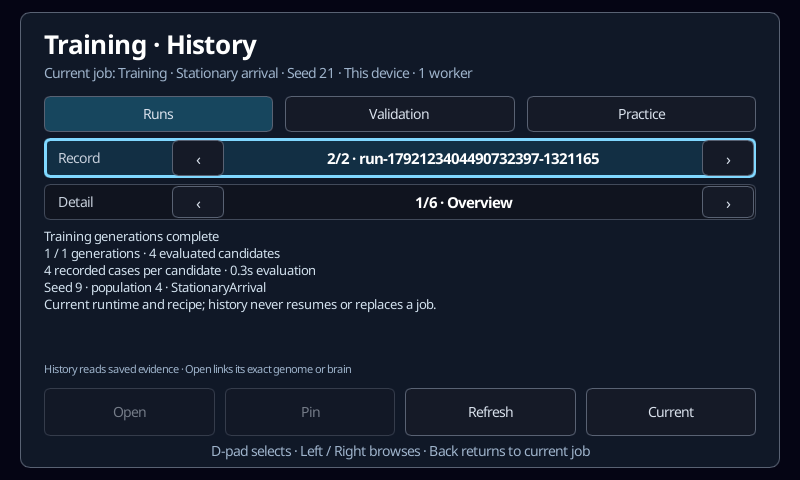
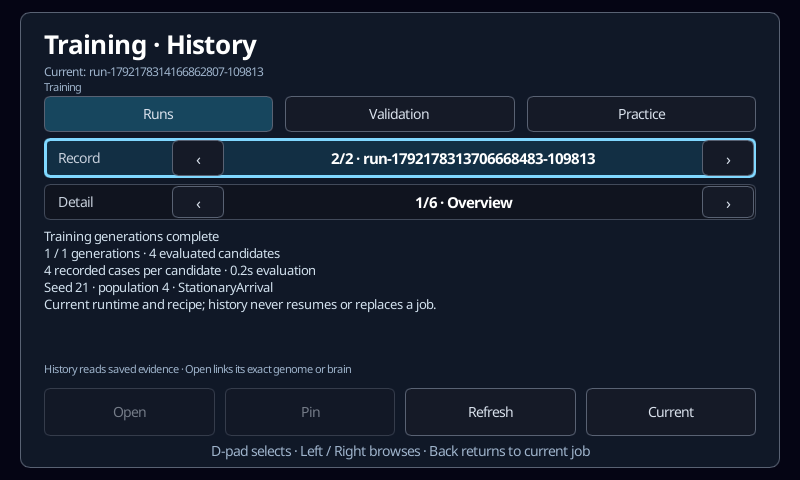
Fix history comparisons, hidden replays, and current run identity

Changed region(s): [[0.0625, 0.125, 0.5938, 0.1875], [0.4062, 0.3125, 0.75, 0.3438], [0.0938, 0.5938, 0.3438, 0.625]]

diff --git a/crates/engine-client/src/training_history/details/tests.rs b/crates/engine-client/src/training_history/details/tests.rs
@@ -1,0 +1,116 @@
+use super::*;
+use engine_agent::{
+    brain_assembly,
+    genome_library::{self, Practice},
+    training_history::{self, Key, Kind, TrialRecord},
+};
+use std::path::Path;
+
+fn read_trial(root: &Path, kind: Kind, id: &str, receipt: &Path) -> TrialRecord {
+    let key = Key {
+        kind,
+        id: id.into(),
+        receipt: receipt.file_stem().unwrap().to_str().unwrap().into(),
+    };
+    let Record::Trial(trial) = training_history::inspect(root, &key).unwrap() else {
+        panic!("expected practice receipt")
+    };
+    *trial
+}
+
+fn measured(trial: &TrialRecord) -> Sample {
+    pages(&Record::Trial(Box::new(trial.clone())), false)
+        .remove(0)
+        .sample
+        .unwrap()
+}
+
+#[test]
+fn component_and_assembly_receipts_share_their_execution_protocol() {
+    let dir = tempfile::tempdir().unwrap();
+    let root = dir.path();
+    let entries = genome_library::catalog(&root.join("genomes"))
+        .unwrap()
+        .entries;
+    let assembly = brain_assembly::create(root, &entries[0].id, "Comparison fixture").unwrap();
+    let mut protocols = Vec::new();
+    for preset in [Practice::Stationary, Practice::Moving] {
+        let component =
+            genome_library::practice(&root.join("trials"), &entries[0], preset).unwrap();
+        let assembled = brain_assembly::practice(root, &assembly.id, preset).unwrap();
+        assert_eq!(component.episode, assembled.episode);
+        let a = read_trial(root, Kind::GenomeTrial, &entries[0].id, &component.receipt);
+        let b = read_trial(root, Kind::AssemblyTrial, &assembly.id, &assembled.receipt);
+        assert_eq!(measured(&a).protocol.mismatch(&measured(&b).protocol), None);
+        assert_eq!(measured(&a).value, measured(&b).value);
+
+        // A different controller can be compared on the same physical task.
+        let other = genome_library::practice(&root.join("trials"), &entries[1], preset).unwrap();
+        let other = read_trial(root, Kind::GenomeTrial, &entries[1].id, &other.receipt);
+        assert_ne!(a.brain.controller, other.brain.controller);
+        assert_eq!(
+            measured(&other).protocol.mismatch(&measured(&b).protocol),
+            None
+        );
+        protocols.push(measured(&a).protocol);
+
+        type Change = (&'static str, fn(&mut TrialRecord));
+        let changes: [Change; 7] = [
+            ("runtime", |t| t.runtime.push_str("/other")),
+            ("case seed", |t| t.case.seed += 1),
+            ("tick budget", |t| t.case.max_ticks -= 1),
+            ("coordinator", |t| t.brain.coordinator.push_str("/other")),
+            ("host", |t| {
+                t.assembly
+                    .as_mut()
+                    .unwrap()
+                    .definition
+                    .host
+                    .push_str("/other")
+            }),
+            ("organism", |t| {
+                t.assembly
+                    .as_mut()
+                    .unwrap()
+                    .definition
+                    .organism
+                    .push_str("/other")
+            }),
+            ("capabilities", |t| {
+                t.assembly
+                    .as_mut()
+                    .unwrap()
+                    .definition
+                    .required_capabilities
+                    .push("other".into())
+            }),
+        ];
+        for (name, change) in changes {
+            let mut different = b.clone();
+            change(&mut different);
+            assert!(
+                measured(&a)
+                    .protocol
+                    .mismatch(&measured(&different).protocol)
+                    .is_some(),
+                "{name}"
+            );
+        }
+
+        // An unknown recipe cannot borrow the current implicit host, even if
+        // both receipt wrappers carry the same recipe string and brain.
+        let mut unknown_component = a;
+        let mut unknown_assembly = b;
+        unknown_component.recipe = "unrecognized_arrival_v2".into();
+        unknown_assembly
+            .recipe
+            .clone_from(&unknown_component.recipe);
+        assert!(
+            measured(&unknown_component)
+                .protocol
+                .mismatch(&measured(&unknown_assembly).protocol)
+                .is_some()
+        );
+    }
+    assert!(protocols[0].mismatch(&protocols[1]).is_some());
+}

diff --git a/crates/engine-client/src/keyboard_tests/training_history.rs b/crates/engine-client/src/keyboard_tests/training_history.rs
@@ -59,7 +59,7 @@ fn history_browses_run_a_and_trials_its_winner_while_b_keeps_its_results() {
     first_control
         .start(JobSpec {
             recipe: Recipe::StationaryArrival,
-            seed: 9,
+            seed: 21,
             population: 4,
             generations: 1,
             initial_genomes: Some(vec![
@@ -97,6 +97,24 @@ fn history_browses_run_a_and_trials_its_winner_while_b_keeps_its_results() {
     while w.get_history_id().as_str() != a.run_id.as_deref().unwrap() {
         activate(&w, "next");
     }
+    // Recipe and seed match, so the active run needs its own exact identity.
+    assert_eq!(
+        w.get_training_run_id().as_str(),
+        b_before["run_id"].as_str().unwrap()
+    );
+    assert!(
+        w.get_history_current_label()
+            .contains(w.get_training_run_id().as_str())
+    );
+    assert!(!w.get_history_is_current());
+    let current = training_controls::inventory(&w)
+        .into_iter()
+        .find(|c| c.id == "training.snapshot")
+        .unwrap();
+    assert!(!current.enabled);
+    let current: serde_json::Value =
+        serde_json::from_str(current.value.as_deref().unwrap()).unwrap();
+    assert_eq!(current["run_id"], b_before["run_id"]);
     assert!(!ui_activation::activate(&w, "training.pause"));
     assert!(!ui_activation::activate(&w, "training.stop"));
     assert!(!ui_activation::activate(&w, "training.start"));
@@ -161,6 +179,7 @@ fn history_browses_run_a_and_trials_its_winner_while_b_keeps_its_results() {
     activate(&w, "next");
     activate(&w, "detail.previous");
     assert_eq!(w.get_history_id().as_str(), b["run_id"].as_str().unwrap());
+    assert!(w.get_history_is_current());
     assert!(w.get_history_comparison().starts_with("Same protocol"));
     activate(&w, "validation");
     activate(&w, "detail.next");
@@ -213,6 +232,51 @@ fn history_browses_run_a_and_trials_its_winner_while_b_keeps_its_results() {
             .len(),
         1
     );
+}
+
+#[test]
+fn history_suspends_hidden_replays_and_retains_playback_on_return() {
+    slint::platform::set_platform(Box::new(TestPlatform)).unwrap();
+    let w = MainWindow::new().unwrap();
+    w.window().set_size(slint::LogicalSize::new(800.0, 480.0));
+    let dir = tempfile::tempdir().unwrap();
+    let _training = training_controls::install(&w, dir.path().into()).unwrap();
+    install_ui_navigation(&w);
+    w.set_launcher_visible(true);
+    w.show().unwrap();
+    wait(&w, || w.get_training_status_code() == "ready");
+    assert!(ui_activation::activate(&w, "launcher.training"));
+    w.set_training_population(4);
+    w.set_training_generations(1);
+    training_controls::publish_setup(&w);
+    assert!(ui_activation::activate(&w, "training.start"));
+    wait(&w, || w.get_training_status_code() == "completed");
+
+    // Hide the preview before its first timer tick: no replay should start.
+    assert!(ui_activation::activate(&w, "training.preview.best"));
+    activate(&w, "open");
+    let until = std::time::Instant::now() + Duration::from_millis(300);
+    wait(&w, || std::time::Instant::now() >= until);
+    assert!(w.get_training_preview_id().is_empty());
+
+    activate(&w, "current");
+    wait(&w, || w.get_training_preview_tick() >= 4);
+    assert!(ui_activation::activate(&w, "training.preview.follow"));
+    assert!(!w.get_training_preview_follow());
+    activate(&w, "open");
+    let frozen = w.get_training_preview_tick();
+    let selected = w.get_training_preview_id();
+    let until = std::time::Instant::now() + Duration::from_millis(300);
+    wait(&w, || std::time::Instant::now() >= until);
+    assert_eq!(w.get_training_preview_tick(), frozen);
+    assert_eq!(w.get_training_preview_id(), selected);
+    assert!(!ui_activation::activate(&w, "training.preview.best"));
+
+    activate(&w, "current");
+    wait(&w, || w.get_training_preview_tick() > frozen);
+    assert_eq!(w.get_training_preview_id(), selected);
+    assert_eq!(w.get_training_preview_mode(), 2);
+    assert!(!w.get_training_preview_follow());
 }
 
 #[test]

diff --git a/crates/engine-client/src/training_history/details.rs b/crates/engine-client/src/training_history/details.rs
@@ -1,4 +1,6 @@
 use engine_agent::{
+    brain_assembly::Definition,
+    ship_arrival,
     training_history::{Protocol, Record},
     training_job::Recipe,
 };
@@ -214,6 +216,16 @@ pub(super) fn pages(record: &Record, validation: bool) -> Vec<Page> {
             // behavior, cases, scoring version and runtime remain pinned.
             let mut host = t.brain.clone();
             host.controller.clear();
+            // Version-one component receipts used this implicit arrival host.
+            // Normalize it to the saved assembly's execution metadata, without
+            // guessing a host for receipts from an unrecognized recipe.
+            let implicit = (t.version == 1 && t.recipe == ship_arrival::RECIPE)
+                .then(|| Definition::arrival(&t.brain.controller));
+            let execution = t
+                .assembly
+                .as_ref()
+                .map(|a| &a.definition)
+                .or(implicit.as_ref());
             vec![
                 Page {
                     title: t.case.name.clone(),
@@ -237,12 +249,8 @@ pub(super) fn pages(record: &Record, validation: bool) -> Vec<Page> {
                             &t.recipe,
                             &t.case,
                             &host,
-                            t.assembly.as_ref().map(|a| {
-                                (
-                                    &a.definition.host,
-                                    &a.definition.organism,
-                                    &a.definition.required_capabilities,
-                                )
+                            execution.map(|d| {
+                                (d.version, &d.host, &d.organism, &d.required_capabilities)
                             }),
                         ),
                         t.brain.controller.clone(),
@@ -270,3 +278,6 @@ pub(super) fn pages(record: &Record, validation: bool) -> Vec<Page> {
         }
     }
 }
+
+#[cfg(test)]
+mod tests;

diff --git a/crates/engine-client/src/training_history.rs b/crates/engine-client/src/training_history.rs
@@ -363,6 +363,10 @@ pub(crate) fn selected_id(w: &MainWindow) -> &'static str {
 pub(crate) fn inventory(w: &MainWindow) -> Vec<UiControl> {
     let ready = !w.get_history_busy();
     let mut controls = vec![
+        UiControl::new("training.snapshot", "Current training job", false)
+            .with_value(w.get_training_snapshot().to_string()),
+        UiControl::new("training.status", "Current job state", false)
+            .with_value(w.get_training_status_code().to_string()),
         UiControl::new(
             "training.history.snapshot",
             "Selected historical evidence",

diff --git a/crates/engine-client/src/training_controls.rs b/crates/engine-client/src/training_controls.rs
@@ -250,6 +250,7 @@ pub(crate) fn publish(window: &MainWindow, snapshot: &JobSnapshot) {
         window.set_training_setup(false);
     }
     window.set_training_has_job(snapshot.run_id.is_some());
+    window.set_training_run_id(snapshot.run_id.as_deref().unwrap_or("").into());
     window.set_training_active(snapshot.state.busy());
     window.set_training_status(state_label(snapshot.state).into());
     window.set_training_status_code(

diff --git a/crates/engine-client/src/training_preview.rs b/crates/engine-client/src/training_preview.rs
@@ -116,6 +116,7 @@ pub(crate) fn install(window: &MainWindow, control: JobControl) -> std::io::Resu
         }
         if !w.get_training_visible()
             || w.get_training_setup()
+            || w.get_training_history()
             || !w.get_launcher_visible()
             || w.get_training_preview_mode() == 0
         {

diff --git a/docs/managed-training.md b/docs/managed-training.md
@@ -56,9 +56,9 @@ and applied turn/thrust/brake. They do not display the evaluator's live world.
 Playback cycles through **1×**, **2×**, **4×**, and **Still** independently of
 training. **Follow** samples a new candidate and cycles training cases after
 each replay; **Pinned** repeats the same retained candidate and case. Pinning
-also discards an already-running replacement replay. Leaving the view stops
-playback and new preview requests; reopening retains the selection. Starting
-a different run clears the previous replay, including stale worker replies.
+also discards an already-running replacement replay. Opening History or leaving
+the view stops playback and new preview requests; reopening retains the selection.
+Starting a different run clears the previous replay, including stale worker replies.
 
 One independent preview worker retains at most two 1,200-tick traces, with one
 evaluation in flight and at most one new replay per second. Rendering is capped
@@ -140,10 +140,12 @@ one evaluation worker, and at most 64 generation summaries. The UI polls every
 ### Saved history
 
 **History** opens retained evidence without changing the current job. The header
-continues to identify the current job; the **Record** arrows select historical
-runs or receipts, and **Detail** pages through their configuration, identities
-and measurements. **Current** or Back returns to the current job's controls.
+shows the current job's exact run ID and state; the **Record** arrows select
+historical runs or receipts, and **Detail** pages through their configuration,
+identities and measurements. **Current** or Back returns to the current job's controls.
 Pause, Resume and Stop are only offered there, never against a historical selection.
+The record selector is labelled **Current** when it matches that job, including
+when several retained runs share the same recipe and seed.
 
 - **Runs** shows the recorded recipe and evolution settings, seed and initial
   genome IDs, saved candidate/generation progress, and each completed generation's
@@ -161,6 +163,8 @@ alongside the pin only when their result type, executable/platform identity,
 case/recipe and scoring/host protocol match. Different protocols are explicitly
 separated. Values are never pooled, ranked across curricula, or counted as
 independent evidence when their cases overlap. **Unpin** restores ordinary details.
+Component and saved-assembly receipts use the same comparison protocol when they
+describe the same arrival host and physical case; the receipt wrapper is provenance.
 
 **Open** follows the exact selected genome or saved brain into the
 [Genomes browser](genome-browser.md), where compatible artifacts can be tried or
@@ -193,6 +197,8 @@ The shared UI controls are `training.history.open`,
 `training.history.` prefix. Read-only `snapshot`, `detail` and `comparison`
 controls expose the full selected identities, recorded configuration and protocol
 results through the same CLI surface. The screen remains `launcher.training`.
+The read-only `training.snapshot` and `training.status` controls continue to
+describe the current job while a different historical record is selected.
 
 Automated real Slint tests cover 800×480, 1024×768 and 480×800 at **1×**, keyboard,
 touch and shared controller-menu actions. The retained workflow starts run B,
